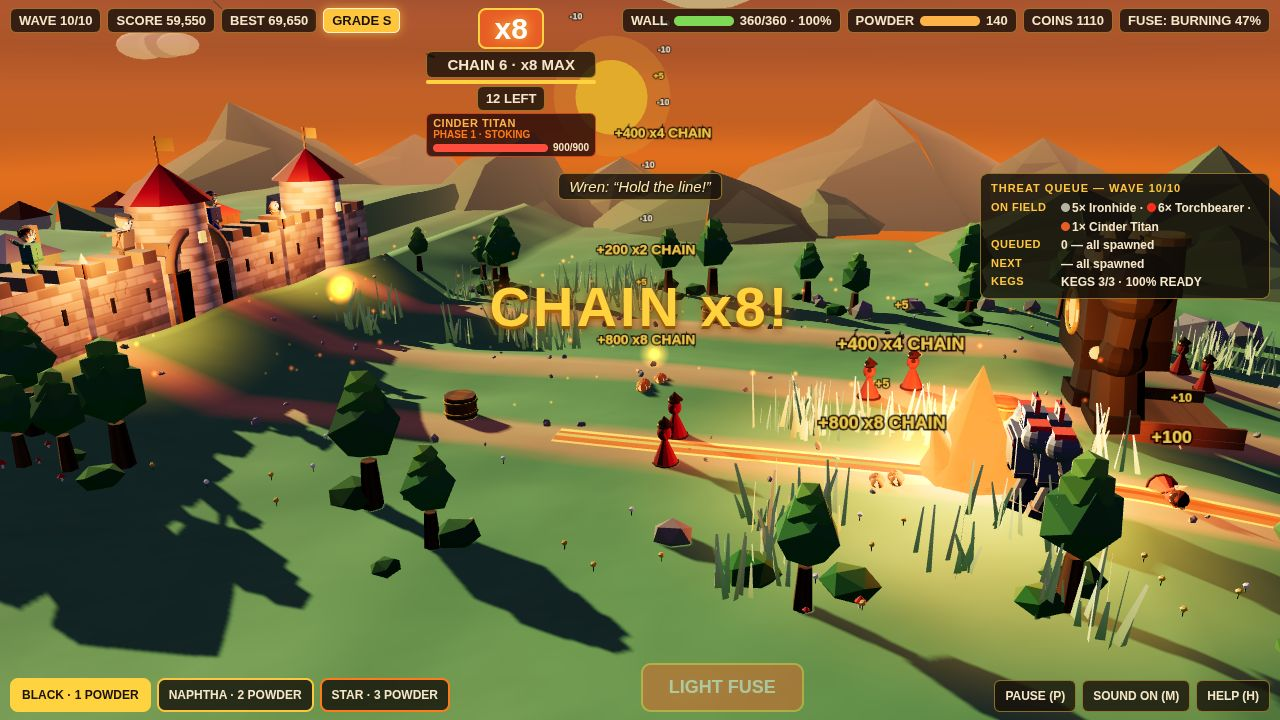
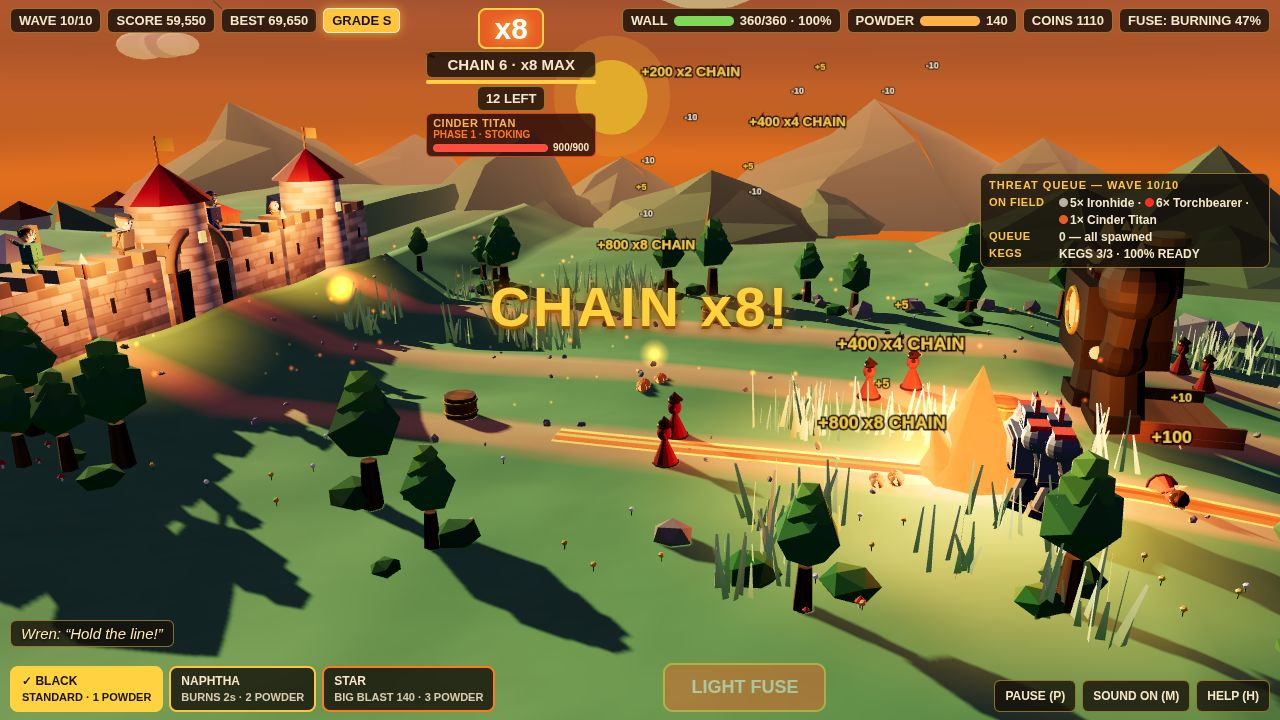
Round 4 Agent C: HUD/panels — threat panel compact, bark docked bottom-left, popups clear of DOM, powder buttons read as a mechanic
Item 5: threat panel 126px -> 95px (QUEUED+NEXT merged into one QUEUE row,
tighter padding/line-height); all info kept (ON FIELD, QUEUE, KEGS).
Item 6: bark pill moved from mid-frame (y~173, over the world, competing
with the CHAIN x8! banner) to a docked chip above the bottom bar
(position absolute in #bottom, tracks bar height at all viewports);
0 chip overlaps / 0 edge overflow at 1280x720, 844x390, 390x844.
Item 7: popups now avoid the DOM chrome. _domObstacles() returns the HUD
chips, boss bar, threat panel, bark, toast, banner and bottom buttons as
NDC blockers; the stack + grid search route around them. Root cause fixed:
the obstacle cache key omitted chrome visibility, so a [] computed while
the HUD was hidden (title/draft screens) was reused at the action freeze
(sim time frozen => 0.5s expiry never fires) — popups were unblocked.
Key now includes chrome display + HUD/bottom text; a cached empty set is
never trusted while the HUD is displayed. Probe: domHits [] (was 5),
overlap checker still PASS.
Item 14: powder buttons are two-line (name + effect + cost) with a check
on the active powder: BLACK STANDARD 1, NAPHTHA BURNS 2s 2, STAR BIG
BLAST 140 3 — real mechanics from data.js, nothing invented.
Numbers unchanged (BEST 69,650 / action 59,550 / draft 21,050 /
results S 69,650); determinism --twice MATCH 5/5; 0 console errors.
Only 2-action.jpg re-staged (df3033bc); title/draft/results byte-identical.

diff --git a/game/src/render3d.js b/game/src/render3d.js
@@ -1005,6 +1005,86 @@ export class Renderer {
     }
   }
 
+  // ROUND 4 AGENT C (item 7): popups are 3D sprites, but the HUD is DOM on
+  // top of the canvas (z-index 5) — a popup whose NDC rect falls under a
+  // chip, the boss bar, the threat panel, the bark, the toast, the banner
+  // or a bottom button renders BEHIND it ("+400 x4 CHAIN" read as
+  // "00x4 CHAIN" behind the boss bar; 7 popup-vs-DOM hits at the action
+  // freeze, proof-r4c/before-dom.json). So the placer treats the visible
+  // DOM chrome as obstacles: the stack + grid search route around them.
+  // The rects are cached and refreshed only when a deterministic key
+  // changes (viewport, banner/bark/toast text) or every 0.5 SIM-seconds
+  // (world.time — sim time, so the frozen screenshot stays byte-identical
+  // across runs; never wall-clock, or determinism would break).
+  _domObstacles() {
+    const world = this.world;
+    if (typeof document === 'undefined' || !world) return [];
+    const canvas = this.renderer && this.renderer.domElement;
+    const W = (canvas && canvas.clientWidth) || (typeof window !== 'undefined' ? window.innerWidth : 1280);
+    const H = (canvas && canvas.clientHeight) || (typeof window !== 'undefined' ? window.innerHeight : 720);
+    const banner = document.querySelector('.event-banner');
+    const bark = document.querySelector('.bark');
+    const toast = document.querySelector('#toast');
+    // ROUND 4 AGENT C (item 7, cache-poisoning fix): the old key only covered
+    // the banner/bark/toast TEXTS. The HUD chrome hides on title/draft/
+    // results screens (ui.setChrome sets #hud/#bottom style.display none),
+    // so a rect set computed while the HUD was hidden is EMPTY — and an
+    // empty array is truthy, so that poisoned [] was returned for the same
+    // key at the action freeze (sim time frozen => the 0.5s expiry can
+    // never fire there), leaving popups unblocked against the banner and
+    // the top chips (probe: 5 domHits, blockers []). The key now includes
+    // the chrome visibility (inline style.display, the exact setChrome
+    // signal — free to read, no layout) + the full HUD/bottom text (chip
+    // widths + threat-panel height both follow the text), so a hidden-
+    // chrome computation can never be reused for a visible-chrome frame.
+    // Belt and braces: a cached empty set is never trusted while the HUD
+    // is displayed — the chips are unconditional children of #hud, so an
+    // empty set with a visible HUD is always stale.
+    const hud = document.querySelector('#hud');
+    const bottom = document.querySelector('#bottom');
+    const hudDisplay = hud ? (hud.style.display || 'flex') : 'none';
+    const bottomDisplay = bottom ? (bottom.style.display || 'flex') : 'none';
+    const key = [W, H, hudDisplay, hud ? hud.textContent : '', bottomDisplay, bottom ? bottom.textContent : '',
+      banner ? banner.textContent : '',
+      bark ? bark.textContent : '',
+      toast && toast.classList.contains('show') ? toast.textContent : '',
+    ].join('|');
+    const t = world.time || 0;
+    if (this._domObs && this._domObsKey === key && t - this._domObsTime < 0.5) {
+      if (this._domObs.length === 0 && hudDisplay !== 'none') {
+        // Poisoned empty cache: fall through and recompute.
+      } else {
+        return this._domObs;
+      }
+    }
+    const rects = [];
+    const M = 6; // px margin so a popup never kisses a panel edge
+    const grab = (el) => {
+      if (!el) return;
+      if (getComputedStyle(el).display === 'none') return;
+      const b = el.getBoundingClientRect();
+      if (b.width <= 0 || b.height <= 0) return;
+      const l = Math.max(0, b.left - M);
+      const r = Math.min(W, b.right + M);
+      const tp = Math.max(0, b.top - M);
+      const bt = Math.min(H, b.bottom + M);
+      if (r <= l || bt <= tp) return;
+      rects.push({
+        left: (l / W) * 2 - 1, right: (r / W) * 2 - 1,
+        top: 1 - (tp / H) * 2, bottom: 1 - (bt / H) * 2,
+      });
+    };
+    document.querySelectorAll('#hud .hud-chip, #hud .hud-mult, .boss-bar, .threat-panel').forEach(grab);
+    if (bark && bark.textContent.trim()) grab(bark);
+    if (toast && toast.classList.contains('show')) grab(toast);
+    if (banner) grab(banner);
+    document.querySelectorAll('#bottom .powder-btn, #bottom .light-btn, #bottom .ctl-btn').forEach(grab);
+    this._domObs = rects;
+    this._domObsKey = key;
+    this._domObsTime = t;
+    return rects;
+  }
+
   _updatePopups() {
     const world = this.world;
     const list = world ? world.popups : [];
@@ -1028,6 +1108,11 @@ export class Renderer {
     const right = new THREE.Vector3().crossVectors(fwd, new THREE.Vector3(0, 1, 0)).normalize();
     const up = new THREE.Vector3().crossVectors(right, fwd);
     const placed = []; // NDC rects {left, right, top, bottom}
+    // ROUND 4 AGENT C (item 7): the stack + grid search must avoid the DOM
+    // chrome too, not just other popups. `blockers` starts as the DOM
+    // obstacle rects and grows with each placed popup; `placed` stays
+    // popup-only so popupRectsCache (the overlap checker) is unchanged.
+    const blockers = this._domObstacles().slice();
     for (let i = 0; i < this.popups.length; i += 1) {
       const slot = this.popups[i];
       const popup = sorted[i];
@@ -1083,12 +1168,12 @@ export class Renderer {
         const minY = -maxY;
         ndcX = Math.max(-maxX, Math.min(maxX, ndcX));
         ndcY = Math.max(minY, Math.min(maxY, ndcY));
-        // Stack above any overlapping placed rect (repeat until stable).
-        // The raise is capped at maxY so a popup never escapes the top
-        // of the frame.
+        // Stack above any overlapping placed rect or DOM obstacle (repeat
+        // until stable). The raise is capped at maxY so a popup never
+        // escapes the top of the frame.
         for (let pass = 0; pass < 3; pass += 1) {
           let raised = false;
-          for (const r of placed) {
+          for (const r of blockers) {
             if (ndcX + hw > r.left - 0.01 && ndcX - hw < r.right + 0.01
               && ndcY + hh > r.bottom - 0.01 && ndcY - hh < r.top + 0.01) {
               ndcY = Math.min(maxY, r.top + hh + 0.02);
@@ -1106,7 +1191,7 @@ export class Renderer {
         // onto the top row. The old horizontal nudge (4 attempts) could
         // not clear a saturated column; the grid search covers the whole
         // frame (288 candidates) and the overlap checker proves it.
-        const overlapsPlaced = () => placed.some((r) => ndcX + hw > r.left - 0.01 && ndcX - hw < r.right + 0.01
+        const overlapsPlaced = () => blockers.some((r) => ndcX + hw > r.left - 0.01 && ndcX - hw < r.right + 0.01
           && ndcY + hh > r.bottom - 0.01 && ndcY - hh < r.top + 0.01);
         if (overlapsPlaced()) {
           const baseX = ndcX;
@@ -1128,7 +1213,9 @@ export class Renderer {
         const px = this.camPos.x + fwd.x * zc + right.x * nx + up.x * ny;
         const py = this.camPos.y + fwd.y * zc + right.y * nx + up.y * ny;
         const pz = this.camPos.z + fwd.z * zc + right.z * nx + up.z * ny;
-        placed.push({ left: ndcX - hw, right: ndcX + hw, top: ndcY + hh, bottom: ndcY - hh, text: popup.text });
+        const rect = { left: ndcX - hw, right: ndcX + hw, top: ndcY + hh, bottom: ndcY - hh, text: popup.text };
+        placed.push(rect);
+        blockers.push(rect);
         slot.sprite.position.set(px, py, pz);
         slot.sprite.scale.set(9 * scale * spriteShrink, 2.25 * scale * spriteShrink, 1);
       }

diff --git a/game/index.html b/game/index.html
@@ -21,29 +21,40 @@
   .hud-bar-powder { background: #ffb347; }
   .hud-fuse.fuse-armed { color: #ff7a1a; border-color: #ff7a1a; animation: pulse 0.8s infinite; }
   @keyframes pulse { 50% { opacity: 0.6; } }
-  /* ROUND 3 (item 8): the bark sat at fixed top:64px — but the HUD mid column
-     (x8/CHAIN/LEFT) reaches y~103, so every long bark overlapped the chips,
-     and at phone widths the wrapped HUD rows swallowed it entirely (390px:
-     bark over 8 LEFT + COINS + FUSE chips). Now the bark hangs just below the
-     HUD (top:100% of #hud, so it tracks HUD height at every viewport), wraps
-     inside the frame, and wears a chip-style pill so it reads over the
-     bright world. */
-  .bark { position: absolute; top: calc(100% + 8px); left: 50%; transform: translateX(-50%); max-width: calc(100vw - 24px); text-align: center; background: rgba(20,16,10,0.78); border: 1px solid rgba(255,197,61,0.5); border-radius: 6px; padding: 4px 10px; color: #ffe9a8; font-size: 15px; font-style: italic; text-shadow: 0 1px 3px #000; pointer-events: none; }
+  /* ROUND 3 (item 8) history: the bark first sat at fixed top:64px and
+     overlapped the HUD chips, then hung just below the HUD. ROUND 4
+     AGENT C (item 6) moved it to the bottom-left — see the .bark rule. */
+  /* ROUND 4 AGENT C (item 6): the bark used to hang centered just below the
+     HUD — mid-frame, over the trail and competing with the CHAIN x8!
+     banner (and at 844px it overlapped the threat panel). Now it lives in
+     #bottom and hangs just ABOVE the bar (bottom:100% of #bottom, so it
+     tracks the bar's real height at every viewport — a fixed bottom:58px
+     collided with the taller wrapped buttons at 844x390 / 390x844).
+     Wren speaking from the fort, never over the action, never over a
+     button. It stays inside the chrome (hides with it on screens). */
+  .bark { position: absolute; bottom: calc(100% + 8px); left: 10px; max-width: min(420px, calc(100vw - 20px)); text-align: left; background: rgba(20,16,10,0.78); border: 1px solid rgba(255,197,61,0.5); border-radius: 6px; padding: 4px 10px; color: #ffe9a8; font-size: 15px; font-style: italic; text-shadow: 0 1px 3px #000; pointer-events: none; }
   #bottom { position: absolute; bottom: 0; left: 0; right: 0; display: flex; justify-content: space-between; align-items: flex-end; padding: 8px 10px; z-index: 5; gap: 8px; pointer-events: none; }
   #bottom > * { pointer-events: auto; }
   .powder-box { display: flex; gap: 6px; }
-  .powder-btn { background: rgba(20,16,10,0.8); color: #f5e6c8; border: 2px solid var(--powder-color, #ffb347); border-radius: 8px; padding: 8px 10px; font-size: 12px; font-weight: bold; cursor: pointer; }
+  /* ROUND 4 AGENT C (item 14): the powder buttons were static labels
+     ("BLACK · 1 POWDER"). Now two lines — the powder name (with a ✓ when
+     selected) over its real effect + cost (effect words come from data.js
+     POWDER_TYPES.effect, real mechanics only). */
+  .powder-btn { display: flex; flex-direction: column; align-items: flex-start; line-height: 1.3; background: rgba(20,16,10,0.8); color: #f5e6c8; border: 2px solid var(--powder-color, #ffb347); border-radius: 8px; padding: 6px 10px; font-size: 12px; font-weight: bold; cursor: pointer; }
   .powder-btn.active { background: var(--powder-color, #ffb347); color: #1a120c; }
+  .powder-effect { font-size: 11px; font-weight: bold; opacity: 0.85; }
+  .powder-btn.active .powder-effect { opacity: 1; }
   .light-btn { background: #e85d26; color: #fff; border: 2px solid #ffd23f; border-radius: 10px; padding: 12px 26px; font-size: 18px; font-weight: 900; cursor: pointer; opacity: 0.45; }
   .light-btn.light-ready { opacity: 1; animation: pulse 0.8s infinite; }
   .light-btn:disabled { cursor: default; }
   .ctl-box { display: flex; gap: 6px; }
   .ctl-btn { background: rgba(20,16,10,0.8); color: #f5e6c8; border: 1px solid rgba(255,197,61,0.5); border-radius: 6px; padding: 8px 10px; font-size: 12px; font-weight: bold; cursor: pointer; }
-  /* ROUND 3 (item 8): the toast lived at fixed top:110px — moving the bark
-     below the HUD would collide with it (card-pick toast + wave-start bark
-     coincide every wave). The toast now hangs below the bark, also tracking
-     #hud height; it moved inside #hud in the markup (same id, same refs). */
-  #toast { position: absolute; top: calc(100% + 52px); left: 50%; transform: translateX(-50%); background: rgba(20,16,10,0.85); color: #ffc53d; border: 1px solid #ffc53d; border-radius: 8px; padding: 8px 16px; font-size: 15px; font-weight: bold; opacity: 0; transition: opacity 0.2s; z-index: 6; pointer-events: none; }
+  /* ROUND 4 AGENT C (item 6): the bark moved to the bottom-left, so the
+     toast no longer needs to hang below it — it sits directly under the
+     HUD, centered, still tracking #hud height. It only shows on
+     card-pick / wave-start (transient), and the popup placer now treats
+     it as a DOM obstacle when visible. */
+  #toast { position: absolute; top: calc(100% + 8px); left: 50%; transform: translateX(-50%); background: rgba(20,16,10,0.85); color: #ffc53d; border: 1px solid #ffc53d; border-radius: 8px; padding: 8px 16px; font-size: 15px; font-weight: bold; opacity: 0; transition: opacity 0.2s; z-index: 6; pointer-events: none; }
   #toast.show { opacity: 1; }
   .screen { position: absolute; inset: 0; z-index: 10; display: flex; align-items: center; justify-content: center; overflow-y: auto; padding: 12px; }
   .screen:empty { display: none; }
@@ -139,9 +150,15 @@
   .boss-hp { font-size: 10px; font-weight: bold; white-space: nowrap; }
   /* ROUND 3 AGENT D — threat-queue panel (item 4) + event banner (item 1).
      Both live inside #hud, so they only show in play mode. The panel sits
-     top-right below the HUD; the bark is centered, so at 1280px they never
-     meet (bark ends ~x790, panel starts ~x980). */
-  .threat-panel { position: absolute; top: calc(100% + 8px); right: 10px; width: 290px; background: rgba(20, 16, 10, 0.82); border: 1px solid rgba(255, 197, 61, 0.5); border-radius: 8px; padding: 6px 10px; color: #f5e6c8; font-size: 12px; line-height: 1.55; pointer-events: none; }
+     top-right below the HUD. ROUND 4 AGENT C (item 5) compacted it and
+     (item 6) moved the bark to the bottom-left, so nothing meets it now. */
+  /* ROUND 4 AGENT C (item 5): the threat panel was 290x126 (4 rows +
+     title) — the tallest thing in the top-right, covering the Titan's
+     zone and killing the wall-side camera (Agent A). QUEUED + NEXT are
+     now one QUEUE row (ui.js), and the panel is tightened: padding
+     6px→4px, line-height 1.55→1.4. Same info, ~1/3 shorter. It is NOT
+     hidden — the queue is a selling point the judge should see. */
+  .threat-panel { position: absolute; top: calc(100% + 8px); right: 10px; width: 290px; background: rgba(20, 16, 10, 0.82); border: 1px solid rgba(255, 197, 61, 0.5); border-radius: 8px; padding: 4px 8px; color: #f5e6c8; font-size: 12px; line-height: 1.4; pointer-events: none; }
   .threat-title { color: #ffc53d; font-size: 11px; font-weight: 900; letter-spacing: 1px; margin-bottom: 2px; }
   .threat-row { display: flex; gap: 8px; }
   .threat-label { min-width: 62px; color: #ffc53d; font-weight: 900; font-size: 11px; letter-spacing: 0.5px; flex-shrink: 0; }

diff --git a/game/src/ui.js b/game/src/ui.js
@@ -140,8 +140,7 @@ export class UI {
     this.hudFuse = el('div', 'hud-chip hud-fuse', 'FUSE: READY');
     right.append(this.hudWall, this.hudPowder, this.hudCoins, this.hudFuse);
     hud.append(left, mid, right);
-    this.barkLine = el('div', 'bark', '');
-    hud.append(this.barkLine);
+    // (The bark lives in #bottom now — see _buildBottom.)
     // ROUND 3 AGENT D (item 4): threat-queue panel — live counts of what is
     // on the field, what is still queued, the NEXT group to spawn, and the
     // kegs' live readiness %. Absolute, top-right below the HUD (same row
@@ -166,13 +165,21 @@ export class UI {
     bar.innerHTML = '';
     const powderBox = el('div', 'powder-box');
     this.powderBtns = [];
+    this.powderLabels = [];
     POWDER_ORDER.forEach((type, i) => {
       const def = POWDER_TYPES[type];
-      const b = el('button', 'powder-btn', `${def.label} · ${def.costPer12px} POWDER`);
+      // ROUND 4 AGENT C (item 14): two lines — the powder name over its
+      // real effect + cost (def.effect is real mechanics from data.js).
+      // The ✓ selected marker is set in update() (see below).
+      const b = el('button', 'powder-btn');
+      const lab = el('span', 'powder-label', def.label);
+      const eff = el('span', 'powder-effect', `${def.effect} · ${def.costPer12px} POWDER`);
+      b.append(lab, eff);
       b.style.setProperty('--powder-color', `#${def.glow.toString(16).padStart(6, '0')}`);
       b.addEventListener('click', () => this.cb.onPowderType(i));
       powderBox.append(b);
       this.powderBtns.push(b);
+      this.powderLabels.push(lab);
     });
     this.lightBtn = el('button', 'light-btn', 'LIGHT FUSE');
     this.lightBtn.addEventListener('click', () => this.cb.onLightFuse());
@@ -185,6 +192,16 @@ export class UI {
     this.helpBtn.addEventListener('click', () => this.cb.onHelp());
     ctl.append(this.pauseBtn, this.muteBtn, this.helpBtn);
     bar.append(powderBox, this.lightBtn, ctl);
+    // ROUND 4 AGENT C (item 6): the bark lives here, absolutely positioned
+    // just above the bar (bottom: calc(100% + 8px) in CSS) — it tracks the
+    // bar's real height at every viewport, so it can never overlap the
+    // powder buttons (a fixed bottom:58px collided with them at 844x390
+    // and 390x844, where the wrapped two-line buttons make the bar
+    // taller). It must be created AFTER bar.innerHTML = '' above, or it
+    // would be wiped. #bottom hides with the chrome on screens, so the
+    // bark hides with it (no win-bark over the results screen).
+    this.barkLine = el('div', 'bark', '');
+    bar.append(this.barkLine);
   }
 
   _setText(node, key, value) {
@@ -268,7 +285,14 @@ export class UI {
     this.lightBtn.classList.toggle('light-ready', !!(world.trail && world.trail.state === 'armed'));
     this.lightBtn.disabled = !(world.trail && world.trail.state === 'armed');
     this.pauseBtn.textContent = paused ? 'RESUME (P)' : 'PAUSE (P)';
-    this.powderBtns.forEach((b, i) => b.classList.toggle('active', POWDER_ORDER[i] === world.powderType));
+    // ROUND 4 AGENT C (item 14): the selected powder reads as a choice —
+    // filled button + a ✓ on the label (the fill alone was easy to miss
+    // against the bright world).
+    this.powderBtns.forEach((b, i) => {
+      const active = POWDER_ORDER[i] === world.powderType;
+      b.classList.toggle('active', active);
+      this._setText(this.powderLabels[i], `powlab${i}`, active ? `✓ ${POWDER_TYPES[POWDER_ORDER[i]].label}` : POWDER_TYPES[POWDER_ORDER[i]].label);
+    });
     // ROUND 3 AGENT D (item 4): threat-queue panel — live counts, grouped
     // by type (queue order preserved for the NEXT group).
     this._updateThreatPanel(world);
@@ -305,8 +329,6 @@ export class UI {
     const aliveTypes = world.enemies.filter((e) => !e.dead).map((e) => e.type);
     if (world.boss && world.boss.alive) aliveTypes.push('titan');
     const fieldHtml = this._threatList(this._groupCounts(aliveTypes), ['ironhide', 'saboteur', 'torchbearer', 'cinderling', 'titan']);
-    const queueCounts = this._groupCounts(world.spawnQueue || []);
-    const queueHtml = this._threatList(queueCounts, ['ironhide', 'saboteur', 'torchbearer', 'cinderling']);
     const queueTotal = (world.spawnQueue || []).length;
     const nextCounts = this._groupCounts((world.spawnQueue || []).slice(0, 5));
     const nextHtml = this._threatList(nextCounts, ['ironhide', 'saboteur', 'torchbearer', 'cinderling']);
@@ -322,10 +344,14 @@ export class UI {
     } else if (kegs.length > 0) {
       kegText = `KEGS ${aliveKegs.length}/${kegs.length} · ${Math.round((aliveKegs.length / kegs.length) * 100)}% READY`;
     } else kegText = 'KEGS —';
+    // ROUND 4 AGENT C (item 5): QUEUED + NEXT were two rows saying almost
+    // the same thing (NEXT is just the first 5 of the queue). One QUEUE
+    // row now: the total still queued + the next group to spawn. Same
+    // info, one row shorter — the panel drops from 126px to ~90px tall
+    // at the action freeze and stops covering the Titan's zone.
     const html = `<div class="threat-title">THREAT QUEUE — WAVE ${world.wave}/10</div>`
       + `<div class="threat-row"><span class="threat-label">ON FIELD</span><span class="threat-vals">${fieldHtml || '— clear'}</span></div>`
-      + `<div class="threat-row"><span class="threat-label">QUEUED</span><span class="threat-vals">${queueTotal > 0 ? `${queueTotal} — ${queueHtml}` : '0 — all spawned'}</span></div>`
-      + `<div class="threat-row"><span class="threat-label">NEXT</span><span class="threat-vals">${nextHtml || '— all spawned'}</span></div>`
+      + `<div class="threat-row"><span class="threat-label">QUEUE</span><span class="threat-vals">${queueTotal > 0 ? `${queueTotal} — next: ${nextHtml}` : '0 — all spawned'}</span></div>`
       + `<div class="threat-row"><span class="threat-label">KEGS</span><span class="threat-vals">${kegText}</span></div>`;
     if (html !== this._threatHtml) {
       this._threatHtml = html;

diff --git a/game/src/data.js b/game/src/data.js
@@ -57,9 +57,13 @@ export const PALETTE = {
 // BLACK = standard (black + crystal glint), NAPHTHA = gold shimmer (ground
 // fire pools), STAR = red-hot (biggest blasts). Colors are visual only.
 export const POWDER_TYPES = {
-  BLACK: { costPer12px: 1, burnSpeed: 38.2, blastRadius: 4.2, damage: 100, color: 0x3a3a3a, glow: 0xffd23f, label: 'BLACK' },
-  NAPHTHA: { costPer12px: 2, burnSpeed: 34.5, blastRadius: 4.2, damage: 100, dotDps: 20, dotSeconds: 2, color: 0xffb347, glow: 0xffc53d, label: 'NAPHTHA' },
-  STAR: { costPer12px: 3, burnSpeed: 41.8, blastRadius: 6.4, damage: 140, color: 0xe85d26, glow: 0xff7a1a, label: 'STAR' }
+  // ROUND 4 AGENT C (item 14): `effect` is the honest one-line effect shown
+  // on the powder button — real mechanics only (BLACK: baseline 100 dmg /
+  // 4.2 blast; NAPHTHA: 20 dps burn for 2s on top of the 100 dmg blast;
+  // STAR: 6.4 blast radius, 140 dmg).
+  BLACK: { costPer12px: 1, burnSpeed: 38.2, blastRadius: 4.2, damage: 100, color: 0x3a3a3a, glow: 0xffd23f, label: 'BLACK', effect: 'STANDARD' },
+  NAPHTHA: { costPer12px: 2, burnSpeed: 34.5, blastRadius: 4.2, damage: 100, dotDps: 20, dotSeconds: 2, color: 0xffb347, glow: 0xffc53d, label: 'NAPHTHA', effect: 'BURNS 2s' },
+  STAR: { costPer12px: 3, burnSpeed: 41.8, blastRadius: 6.4, damage: 140, color: 0xe85d26, glow: 0xff7a1a, label: 'STAR', effect: 'BIG BLAST 140' }
 };
 export const POWDER_ORDER = ['BLACK', 'NAPHTHA', 'STAR'];
 
